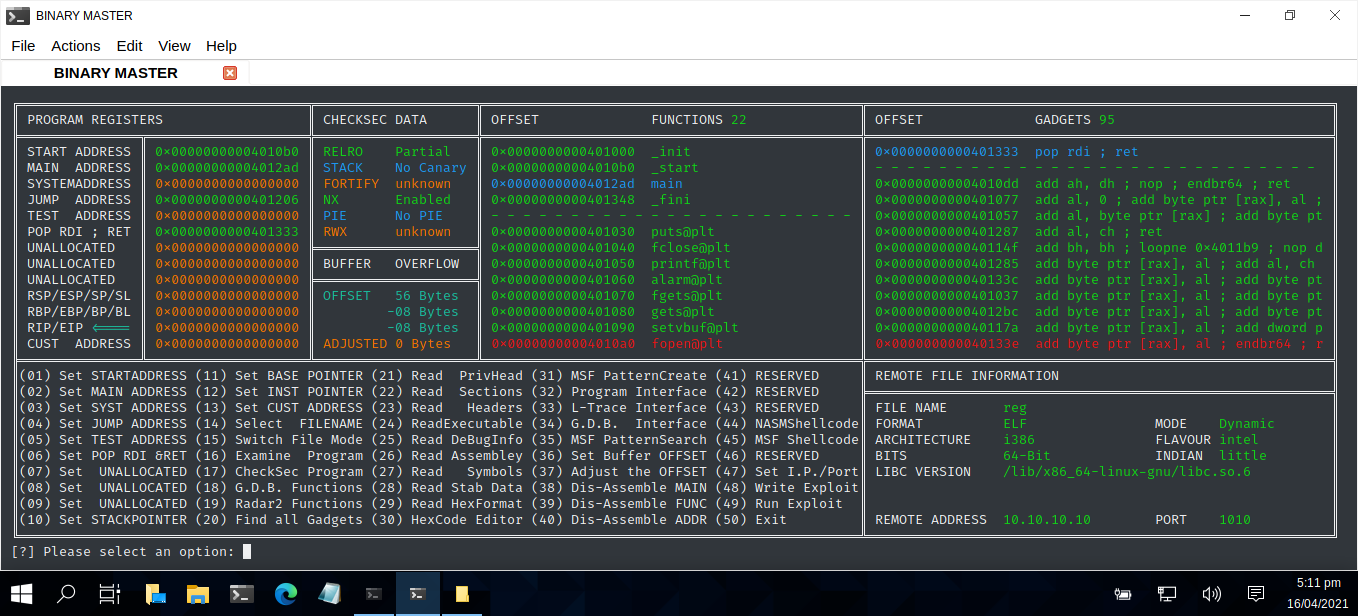
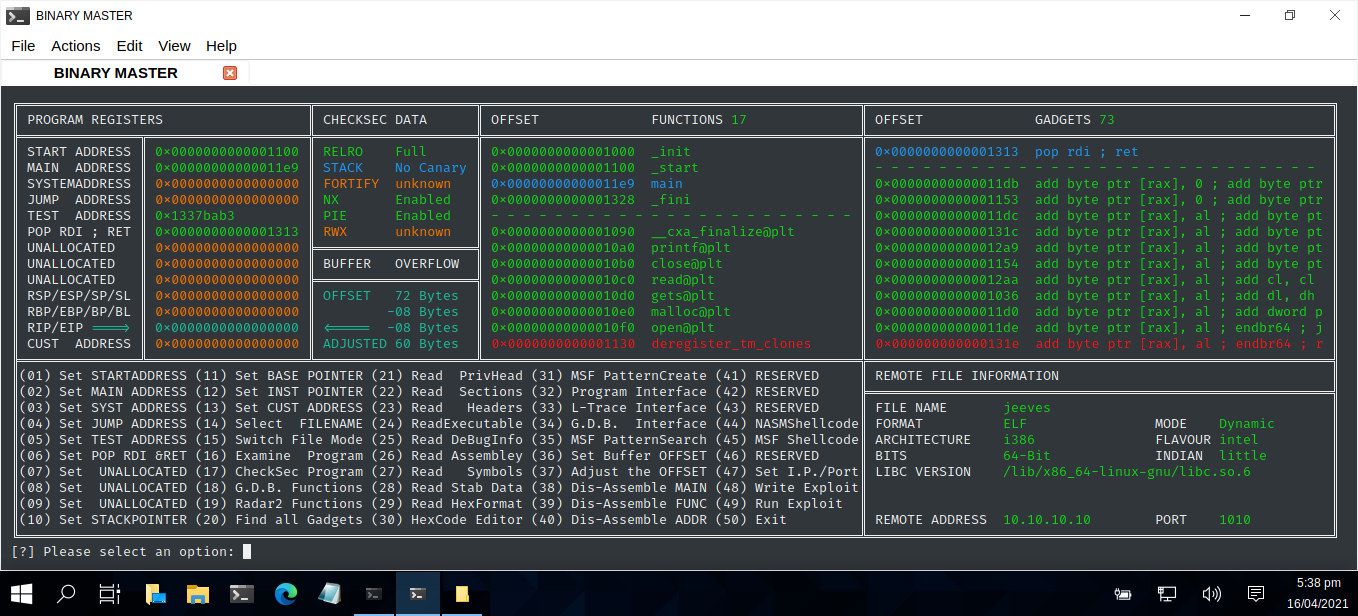
Full Stack

diff --git a/BinMaster.py b/BinMaster.py
@@ -361,17 +361,24 @@ def dispMenu():
    print('\u2551', end=' ')
    if BITS[:7] != "unknown" and OFF[:1] != "0":
       print("RIP/EIP", end=' ')
-      print(colored("<====", colour2,attrs=['blink']), end=' ')
+      print(colored("====>", colour2,attrs=['blink']), end=' ')
    else:
       print("RIP/EIP      ", end=' ')   
    print('\u2551', end=' ')      
    if RIP[:18] == "0x0000000000000000":
-      print(colored(RIP,colour7), end=' ')
+      if BITS[:7] != "unknown" and OFF[:1] != "0":
+         print(colored(RIP,colour2), end=' ')     
+      else:
+         print(colored(RIP,colour7), end=' ')
    else:
       print(colored(RIP,colour6), end=' ')
    print('\u2551', end=' ') 
    if BITS[:6] == "64-Bit":
-      print(colored("        -08 Bytes ",colour2), end=' ')
+      if BITS[:7] != "unknown" and OFF[:1] != "0":
+         print(colored("<=====", colour2,attrs=['blink']), end=' ')
+      else:
+         print("      ", end=' ')   
+      print(colored(" -08 Bytes ",colour2), end=' ')
    if BITS[:6] == "32-Bit":
       print(colored("        -04 Bytes ",colour2), end=' ')
    if BITS[:7] == "unknown":

diff --git a/README.md b/README.md
@@ -24,7 +24,7 @@ USAGE : python3 BinMaster.py
 
 | LANGUAGE  | FILENAME     | MD5 Hash                         | DESCRIPTION    | VERSION    |
 |------     |------        | -------                          | ------         | ----       |
-| python3   | BinMaster.py | 0b7404805bf42ce6e9acf71241714017 | Command Centre | Full Stack |
+| python3   | BinMaster.py | e432d03cda5d0a8689ffe267384c849c | Command Centre | Full Stack |
 
 ### CONSOLE DISPLAY AND VIDEO LINK
 [![RamMater](https://github.com/BroadbentT/BIN-MASTER/blob/master/picture3.png)](https://youtu.be/8-ZtmyBInUM "Binary Master")
